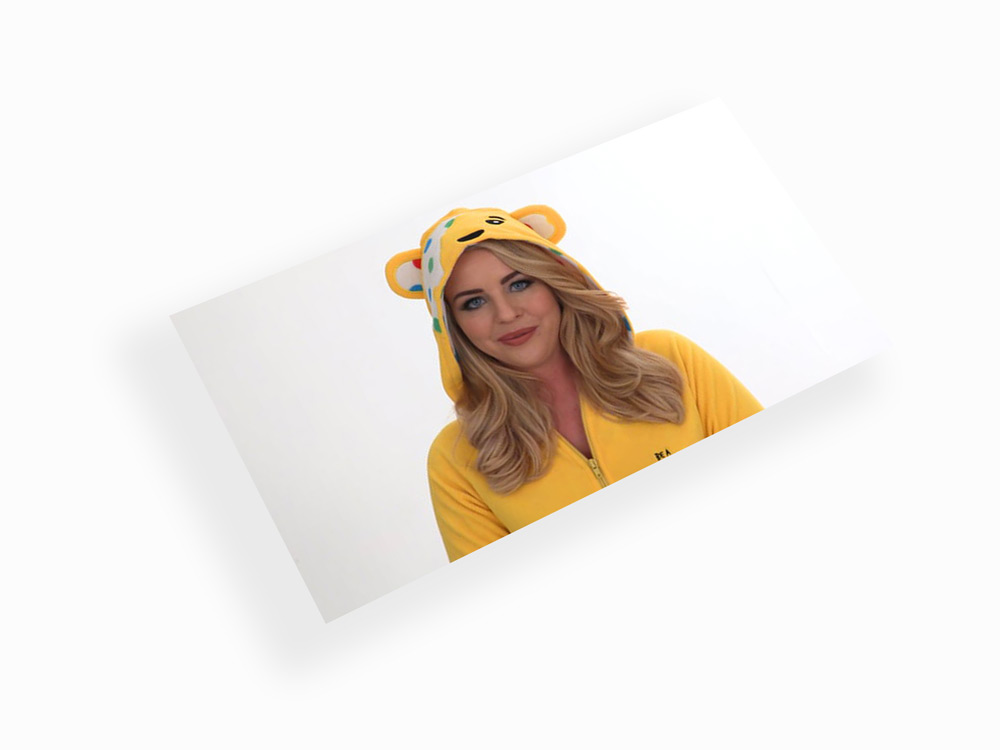
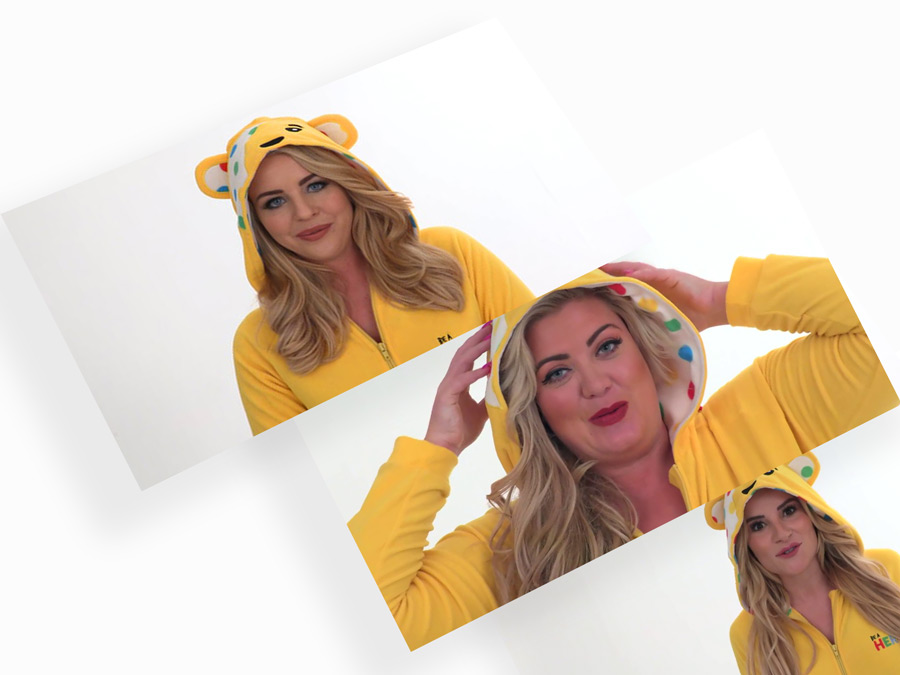
new version with content for UX role

diff --git a/index.html b/index.html
@@ -49,6 +49,8 @@
           
 <div class="body-container">
 
+    <!-- 1st left -->
+    
       <div class="container background1 left hover">
           
           <div class="half left">
@@ -65,9 +67,9 @@
           
           <div class="inner-text">
               <h1 class="padbot">Alistair Kroie</h1>
-              <h3 class="padtop">Digital Producer & Designer</h3>
+              <h3 class="padtop">Digital Producer & UX Designer</h3>
               
-              <h2>A decade of experience developing online content and products for a variety of brands. Recent work has been at the BBC, gaining a wealth of exposure to media innovations, product strategy, design, and digital content creation.</h2>
+              <h2>Experience with top media brands in both Australia and the UK designing and producing content and experiences. My most recent work has been at the BBC, where I have gained a wealth of exposure to media innovations, product strategy, UX & visual design, and digital content creation.</h2>
               <div class="centered">
           <a href = "https://twitter.com/alistairkroie" target="_blank">
               <img class="social social-right" src="img/social/twitter-blue.png"></a>
@@ -75,12 +77,10 @@
                 <a href = "https://uk.linkedin.com/in/alistairkroie" target="_blank">
                     <img class="social social-right " src="img/social/in-blue.png"></a>
               </div>
-          </div>
-              
-              
+          </div>          
           </div>  
           </div>
-          
+    
       <div class="container background1 right">
           
           <div class="half right">
@@ -89,68 +89,26 @@
           
           </div>
           </div>  
-          </div>          
-
+          </div>      
     
-    <!-- END -->
+<!-- 2nd -->    
 
  <div class="container">
           
           <div class="half">
-          
           <div class="inner-text">
-    <h1>Video Production</h1>
-              <h2>Experience producing video content for online, on-air, and mobile. Editing and motion graphic skills with After Effects & Premiere Pro are complimented with shooting skills with a variety of cameras. I also have a great deal of experience directing talent, including voice artists. Script writing, storyboarding, and pitching content have all been a big part of by career. <a class="blue-txt-link" href="./video.html">View video work.</a></h2>
-    </div>
-          
+    <h1>BBC News Reacions</h1>
+              <h2>A recent project I have worked on as UX Designer is 'Reactions', a project taking social media embedding on BBC News to another level. In a series of prototypes we explored how a user could explore popular social media posts from the BBC News website.<!--<a class="blue-txt-link" href="./video.html">View video work.</a></h2>-->
+            </div>
           </div>    
           </div>
           
           <div class="container">
-              <div class="background13 half">
+              <div class="reactions-wire half">
                   </div>
-          
-
          </div>
     
-<!-- End mod -->
- <!-- TWIN MOD        
-      <div class="container">
-          
-          <div class="half">
-          
-          <div class="inner-text">
-              <h1 class="padbot">Alistair Kroie</h1>
-              <h3 class="padtop">Digital Producer & Designer</h3>
-              
-              <h2>A decade of experience developing online content and products for a variety of brands. Recent work has been at the BBC, gaining a wealth of exposure to media innovations, product strategy, design, and digital content creation.</h2>
-          
-          </div>
-          </div>  
-          </div>
-          
-          
-     <div class="container background1">
-          
-          <div class="half">
-          
-          <div class="inner">
-          
-          </div>
-          </div>  
-          </div>
-          
- <!-- END TWIN MOD -->  
-          
-     
-          
- <!-- TWIN MOD -->         
-      
-          
- <!-- END TWIN MOD --> 
-          
- <!-- TWIN MOD -->         
-          
+<!-- 3rd -->
       <div class="container background2 left hover">
           
           <div class="half left">
@@ -261,6 +219,66 @@
           </div>  
           </div>
     
+        <!-- 5th -->
+    
+       <div class="container">
+          
+          <div class="half">
+          
+          <div class="inner-text">
+    <h1>Video Production</h1>
+              <h2>Experience producing video content for online, on-air, and mobile. Editing and motion graphic skills with After Effects & Premiere Pro are complimented with shooting skills with a variety of cameras. I also have a great deal of experience directing talent, including voice artists. Script writing, storyboarding, and pitching content have all been a big part of by career. <a class="blue-txt-link" href="./video.html">View video work.</a></h2>
+        </div>
+          </div>    
+          </div>
+          
+              <div class="container">
+              <div class="background13 half">
+                  </div>
+          
+
+         </div>
+          
+    <!-- 2nd last -->
+    
+         <div class="container style-guide left hover"><a href="./interactive-strategy.html">
+          
+          <div class="half left">
+          
+          <div class="inner left">
+              </a>
+          
+          </div>
+          </div>  
+          </div>
+        
+      <div class="container">
+          
+          <div class="half">
+          
+          <div class="inner-text">
+              <h1>BBC News Social Media Style Guide</h1>
+
+              <h2>A recent design project with the BBC has been to establish the style for social media animations. A detailed style guide and tool kit for animations was developed and distributed. Key design decisions were made working within the bounds of the BBC's established style. <a class="blue-txt-link" id="open-popup-style-guide">Overview video.</a></h2> 
+          </div>
+          </div>  
+          </div>
+    
+     
+      <div class="container style-guide right"><a href="./interactive-strategy.html"> 
+          
+          <div class="half right">
+          
+          <div class="inner right">
+              </a>
+          </div>
+          </div>  
+          </div>
+    
+    <!-- last -->
+    
+
+    
       <div class="container">
           
           <div class="half">
@@ -268,7 +286,6 @@
           <div class="inner-text">
               <h1>Animation and Character Design</h1>
 
-              
               <h2>My role with BBC Media Action as Multimedia Producer & Animator has seen me working on a variety of different projects including a series of <a class="blue-txt-link" href="./animation.html">animated films</a>, comic strips, and interactive graphics for iLearn, an E-Learning Product teaching people in the developing world about media production.</h2>
           
           </div>

diff --git a/css/main.css b/css/main.css
@@ -525,6 +525,33 @@ h4 {
   background-size: cover;   
 }
 
+
+.reactions-wire {
+       width: 100%;
+   height: 510px;
+   background: url(../img/reactions/react-wireframes.png) no-repeat center center; 
+  -webkit-background-size: cover;
+  -moz-background-size: cover;
+  -o-background-size: cover;
+  background-size: cover;   
+}
+
+.style-guide {
+   background: url(../img/style-guide.png) no-repeat center center; 
+  -webkit-background-size: cover;
+  -moz-background-size: cover;
+  -o-background-size: cover;
+  background-size: cover;   
+}
+
+.reactions-high-fed {
+   background: url(../img/reactions/react-high-fidelity.png) no-repeat center center; 
+  -webkit-background-size: cover;
+  -moz-background-size: cover;
+  -o-background-size: cover;
+  background-size: cover;   
+}
+
 .width-100 {
     width: 100%;
 }

diff --git a/js/main.js b/js/main.js
@@ -476,3 +476,12 @@ $('#open-popup-pudsey2').magnificPopup({
         type: 'iframe' // this overrides default type
       },
 });
+
+$('#open-popup-style-guide').magnificPopup({
+    items: 
+
+          {
+        src: 'https://vimeo.com/237615044',
+        type: 'iframe' // this overrides default type
+      },
+});
